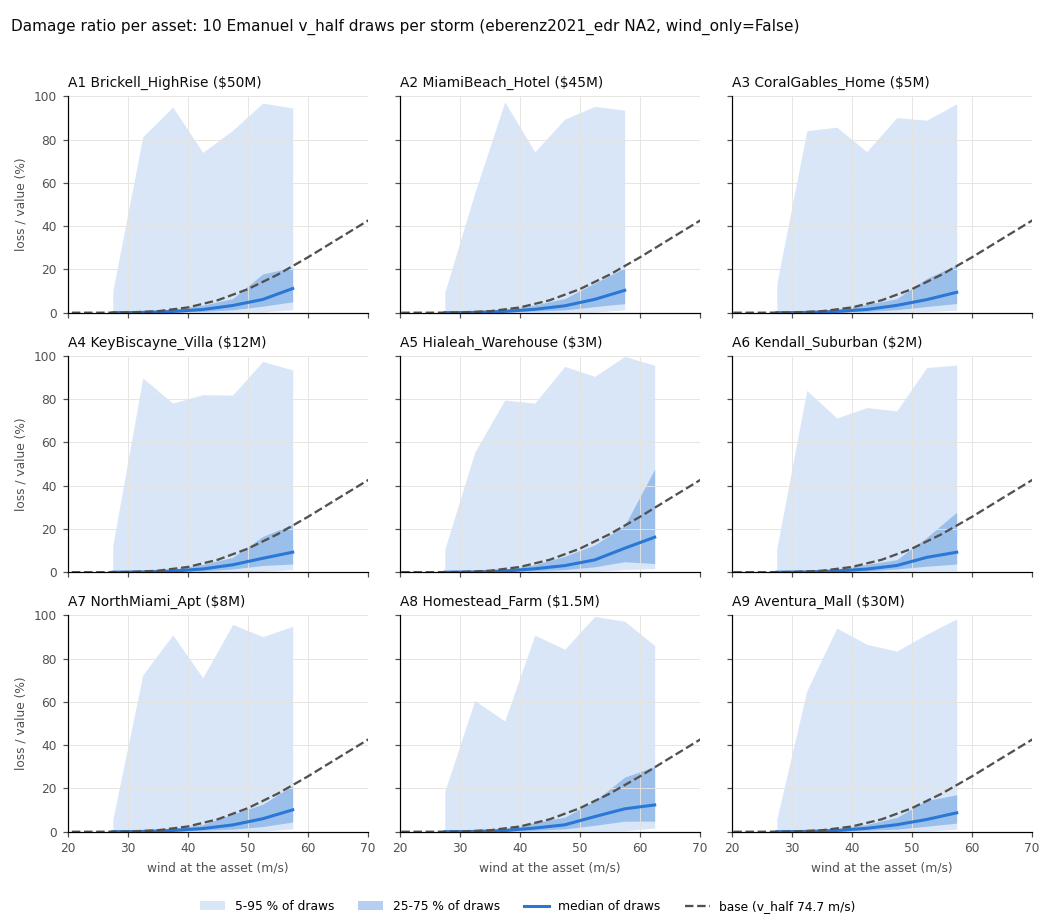
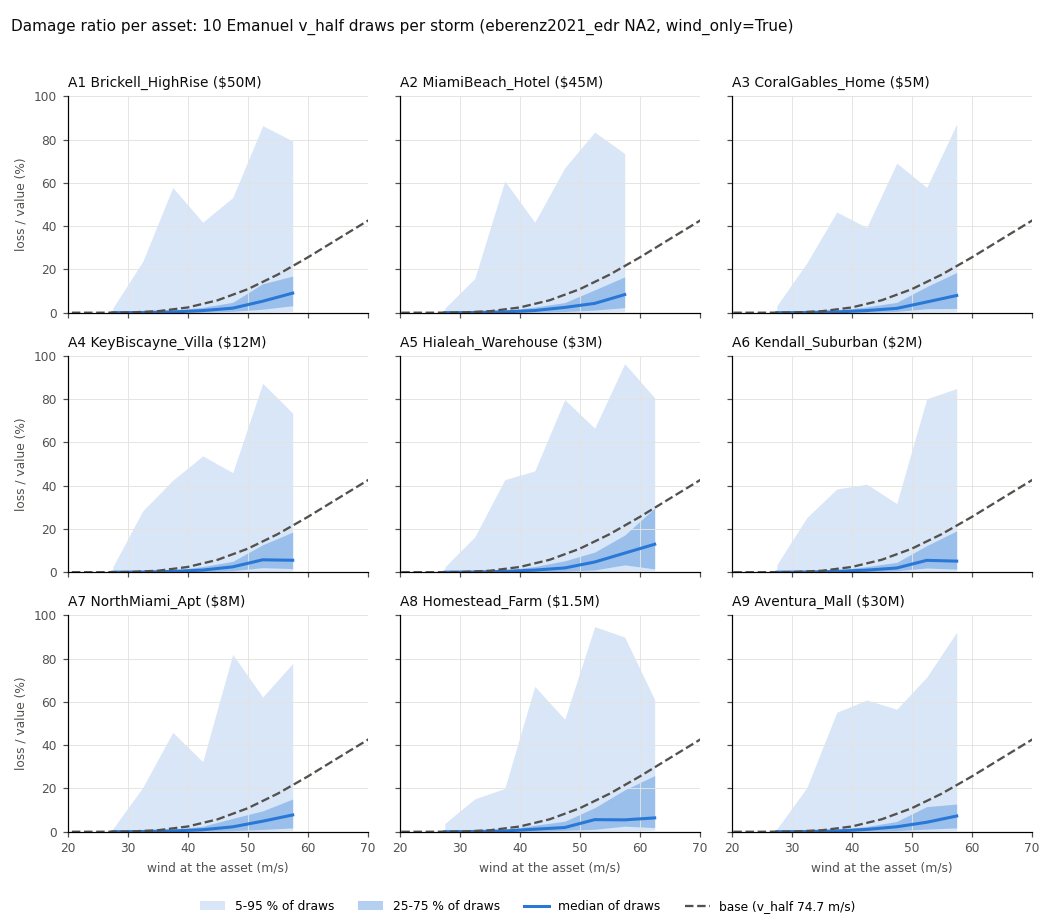
MAR-106: document the wind_only default and regenerate the loss-spread figure
States the MAR-103 decision and its rationale, keeps wind_only: false as the sensitivity option, and refreshes the thesis-portfolio observations from 10-draw builds of both priors.

diff --git a/docs/methodology/vulnerability.md b/docs/methodology/vulnerability.md
@@ -1,6 +1,6 @@
 # Vulnerability uncertainty: Emanuel `v_half` draws
 
-Issue MAR-25 (F-12), SPEC §6.3 ("loss truth"). Code: `packages/climada/src/parametric_insurance_design_climada/vulnerability.py`; config section `vulnerability` (see `packages/climada/README.md`).
+Issues MAR-25 and MAR-106 (F-12), SPEC §6.3 ("loss truth"); prior decision MAR-103. Code: `packages/climada/src/parametric_insurance_design_climada/vulnerability.py`; config section `vulnerability` (see `packages/climada/README.md`).
 
 ## Why
 
@@ -38,7 +38,7 @@ The issue allowed `v_thresh` draws "if needed". They aren't.
 
 ## The prior and its source
 
-**Default: `eberenz2021_edr`, region `NA2` (USA and Canada).**
+**Default: `eberenz2021_edr`, region `NA2` (USA and Canada), wind-only events (`wind_only: true`).**
 
 Eberenz, S., Lüthi, S. and Bresch, D. N. (2021): *Regional tropical cyclone impact functions for globally consistent risk assessments.* Nat. Hazards Earth Syst. Sci. 21, 393–415, [doi:10.5194/nhess-21-393-2021](https://doi.org/10.5194/nhess-21-393-2021).
 
@@ -51,16 +51,16 @@ What they did:
 - searched `v_half` from 25.8 to 325.7 m/s;
 - recommend event-fitted or RMSF-optimal functions for sensitivity analysis (their Sect. 5.1).
 
-CLIMADA 6.1.0 ships all four calibration results as `climada/data/system/tc_impf_cal_v01_{EDR,RMSF,TDR1.0,TDR1.5}.csv`. `ImpfSetTropCyclone.calibrated_regional_vhalf("EDR", q)` returns quantile `q` of a region's event-wise values. The prior is that distribution:
+CLIMADA 6.1.0 ships all four calibration results as `climada/data/system/tc_impf_cal_v01_{EDR,RMSF,TDR1.0,TDR1.5}.csv`. `ImpfSetTropCyclone.calibrated_regional_vhalf("EDR", q)` returns quantile `q` of a region's event-wise values. The prior is that distribution, restricted by default to the wind-only events:
 
-- a draw is `calibrated_regional_vhalf("EDR", q=u)["NA2"]` with `u ~ U(0, 1)`;
-- that is, the linear-interpolation quantile function of the 43 NA2 event-wise values;
+- a draw is the linear-interpolation quantile `u ~ U(0, 1)` of the 19 wind-only NA2 event-wise values (default);
+- with `wind_only: false` it is the quantile of all 43 NA2 values, which equals `calibrated_regional_vhalf("EDR", q=u)["NA2"]`;
 - the file's SHA256 is pinned (`bde5670d…a3343e39`), and loading fails if it differs.
 
 | NA2 event-wise `v_half` (m/s) | min | 5 % | 25 % | median | 75 % | 95 % | max |
 |---|---|---|---|---|---|---|---|
-| all 43 events (default) | 25.8 | 29.5 | 74.1 | 91.8 | 115.1 | 207.1 | 232.4 |
-| `wind_only: true` (19 events) | 25.8 | 35.9 | 79.1 | 95.4 | 143.7 | 221.9 | 232.4 |
+| `wind_only: true`, 19 events (default) | 25.8 | 35.9 | 79.1 | 95.4 | 143.7 | 221.9 | 232.4 |
+| `wind_only: false`, all 43 events (sensitivity) | 25.8 | 29.5 | 74.1 | 91.8 | 115.1 | 207.1 | 232.4 |
 
 For comparison:
 
@@ -68,7 +68,14 @@ For comparison:
 - the global fits are RMSF 73.4 m/s and TDR 110.1 m/s;
 - the thesis's and CLIMADA's default is 74.7 m/s.
 
-**Option `wind_only: true`.** This leaves out events whose EM-DAT record lists an associated disaster (surge, rain, flood, slide, other). Their reported damage isn't wind damage alone, which pulls the fitted `v_half` down. Examples among the five lowest NA2 values: 1992249N12229 and 2017228N14314 (Flood flags). The default keeps all events, as the published distribution does. Which one to use is an open question for the owner.
+**Decision: wind-only events by default (MAR-103, 2026-10-27).** The owner chose `wind_only: true` as the default prior for checkpoint C1 (MAR-29) and the paper. It leaves out the events whose EM-DAT record lists an associated disaster (surge, rain, flood, slide, other).
+
+Rationale:
+
+- the index and the loss in this pipeline are both wind only: CLIMADA's wind field at the asset and a wind impact function;
+- an event whose reported damage includes surge or flood damage gets a fitted `v_half` that is too low for a wind-only function, which makes the wind damage look larger than it is. Examples among the five lowest NA2 values: 1992249N12229 and 2017228N14314 (Flood flags).
+
+**Sensitivity option `wind_only: false`.** It keeps all 43 NA2 events, as the published distribution and `calibrated_regional_vhalf` do. `configs/thesis_vulnerability_all_events.yaml` is the thesis build with it; `configs/thesis_cat_in_circle_vulnerability.yaml` shows it as a commented line.
 
 **Alternative: `uniform`.** `v_half ~ U(low, high)`, for sensitivity runs; you supply the bounds and their source. It may be used with any `v_thresh` and `scale`. The Eberenz prior requires `v_thresh = 25.7` and `scale = 1`, and the config refuses anything else.
 
@@ -116,22 +123,30 @@ Use more draws for final paper runs if the solve budget allows.
 
 ## Observations on the thesis portfolio (no conclusions)
 
-Setup: `configs/thesis_vulnerability.yaml` (centroid-wind index) and `configs/thesis_cat_in_circle_vulnerability.yaml` (cat-in-a-circle, r = 50 km), 10 draws, seed 20261025, prior `eberenz2021_edr` NA2 with all events. Both have 60,570 rows × 9 locations. The loss columns of the two are identical; only the index differs.
+Setup: `configs/thesis_vulnerability.yaml` (centroid-wind index) and `configs/thesis_cat_in_circle_vulnerability.yaml` (cat-in-a-circle, r = 50 km), 10 draws, seed 20261025, prior `eberenz2021_edr` NA2, wind-only events (the default). Both have 60,570 rows × 9 locations. The loss columns of the two are identical; only the index differs. The sensitivity build `configs/thesis_vulnerability_all_events.yaml` is the same with all 43 events. Builds of 2026-10-27 (MAR-106), CLIMADA 6.1.0:
 
-- Per asset, the rate-weighted expected annual loss over the draws is **2.66–2.81 times** that of the base function (v_half 74.7). With `wind_only: true` (computed outside the pipeline with the same seed) it is 1.72–1.83 times.
-- The prior's median (91.8 m/s) gives *lower* damage than the base function. The higher mean comes from the lower tail of the prior: draws near the 25.8 m/s search bound give damage ratios near 100 % at winds of 30–40 m/s. Example, mean damage ratio over the prior at the wind shown:
+| config | prior | config file SHA256 | `content_hash` |
+|---|---|---|---|
+| `thesis_vulnerability.yaml` | wind-only, 19 events | `7085a3ab…69dfddd0` | `sha256:08ca2877…1f37f603` |
+| `thesis_cat_in_circle_vulnerability.yaml` | wind-only, 19 events | `f6535653…6c48c12d` | `sha256:ea8545d6…d37be7ba` |
+| `thesis_vulnerability_all_events.yaml` | all 43 events | `85a0c495…1659b1a3` | `sha256:6a0200ff…51aef57f` |
 
-  | wind | over the prior | at the median `v_half` | base |
-  |---|---|---|---|
-  | 35 m/s | 7.7 % | 0.3 % | 0.7 % |
-  | 55 m/s | 20.1 % | 8.0 % | 17.6 % |
+The all-events build has the same content hash as the MAR-25 build, which used all events as its default.
 
-- For storms with a non-zero loss, the median per-storm coefficient of variation of the loss across the 10 draws is 1.91–1.98 per asset.
-- The AAL computed per `draw_id` (each draw as one version of the 10,000 years) ranges, for asset A1, from 163k to 229k USD across the 10 draws. The mean is 191k, and the base is 70k.
+- Per asset, the rate-weighted expected annual loss over the draws is **1.72–1.83 times** that of the base function (v_half 74.7); for the portfolio total, 1.78 times. With all 43 events it is 2.66–2.81 times per asset (portfolio 2.72).
+- The default prior's median (95.4 m/s) gives *lower* damage than the base function. The higher mean comes from the lower tail of the prior: draws near the 25.8 m/s search bound give damage ratios near 100 % at winds of 30–40 m/s. Example, mean damage ratio over the prior at the wind shown:
+
+  | wind | over the prior (wind-only) | at its median `v_half` | over the prior (all events) | base |
+  |---|---|---|---|---|
+  | 35 m/s | 5.0 % | 0.2 % | 7.7 % | 0.7 % |
+  | 55 m/s | 15.7 % | 6.9 % | 20.1 % | 17.6 % |
+
+- For storms with a non-zero loss, the median per-storm coefficient of variation of the loss across the 10 draws is 1.89–1.94 per asset (all events: 1.91–1.98).
+- The AAL computed per `draw_id` (each draw as one version of the 10,000 years) ranges, for asset A1, from 102k to 159k USD across the 10 draws. The mean is 125k, and the base is 70k. With all events: 163k to 229k, mean 191k.
 
 ![Damage ratio per asset against the wind at the asset: median and 25–75 % / 5–95 % bands of the 10 draws per storm, and the base impact function](figures/vulnerability_loss_spread.png)
 
-The figure is made by `packages/climada/scripts/plot_vulnerability_spread.py` from the centroid-wind build:
+The figure is made by `packages/climada/scripts/plot_vulnerability_spread.py` from the centroid-wind build with the default prior (`configs/thesis_vulnerability.yaml`):
 
 - one panel per asset: the damage ratio (loss / value) of every (storm, draw) row against the wind at the asset;
 - the median and the 25–75 % and 5–95 % bands, in 5 m/s wind bins with at least 50 rows;
@@ -140,5 +155,5 @@ The figure is made by `packages/climada/scripts/plot_vulnerability_spread.py` fr
 ## Limits
 
 - The calibration used CLIMADA's TC wind model of the time, on IBTrACS tracks and LitPop exposure at country level. This pipeline uses IRIS tracks with the same H08 wind model and point exposures. The event-wise spread therefore also carries hazard-model and reporting error, not only building vulnerability.
-- NA2 contains two Hawaiian (East Pacific) events (1982324N10193, 1992249N12229). Both sit at the 25.8 m/s search bound.
+- NA2 contains two Hawaiian (East Pacific) events (1982324N10193, 1992249N12229). Both sit at the 25.8 m/s search bound. 1992249N12229 has a Flood flag and drops out of the wind-only default; 1982324N10193 has no flag and stays, so it is the default prior's minimum (the next-lowest wind-only value is 37.0 m/s). A basin filter would need the IBTrACS basin of each event, which isn't in the CSV.
 - Draws are independent across storms. A draw is not one fixed `v_half` for the whole catalogue: that is the epistemic reading, SPEC §6.5 (ii). For it, build one EventSet per `impact_function.v_half` value.

diff --git a/packages/climada/README.md b/packages/climada/README.md
@@ -126,8 +126,9 @@ vulnerability:
   seed: 20261025           # required: numpy.random.default_rng(seed)
   prior:
     kind: eberenz2021_edr  # default: event-wise calibrated v_half, Eberenz et al. (2021)
-    region: NA2            # default: USA and Canada (43 events)
-    wind_only: false       # true drops events with surge/rain/flood/slide/other damage
+    region: NA2            # default: USA and Canada
+    wind_only: true        # default (MAR-103): the 19 NA2 events without surge/rain/
+                           # flood/slide/other damage; false keeps all 43 (sensitivity)
   # or: prior: {kind: uniform, low: 60, high: 110, source: "..."}
 ```
 
@@ -135,7 +136,7 @@ The hook works as follows:
 
 - **One `v_half` per storm and draw**, shared by all locations of the storm. Storms and draws are independent.
 - **`v_thresh` and `scale` stay fixed**, at the values in `impact_function`. The Eberenz prior requires 25.7 m/s and 1, the values its calibration held fixed.
-- **The default prior is CLIMADA's own data:** a draw at `u ~ U(0, 1)` equals `ImpfSetTropCyclone.calibrated_regional_vhalf("EDR", q=u)["NA2"]`, read from `climada/data/system/tc_impf_cal_v01_EDR.csv`. That file's SHA256 is pinned.
+- **The default prior is CLIMADA's own data**, `climada/data/system/tc_impf_cal_v01_EDR.csv` (SHA256 pinned), restricted to the wind-only events (MAR-103 decision: the index and the loss are wind only). A draw at `u ~ U(0, 1)` is the quantile `u` of those events' `v_half`. With `wind_only: false` it equals `ImpfSetTropCyclone.calibrated_regional_vhalf("EDR", q=u)["NA2"]`.
 - **The loss is computed as `ImpactCalc` does:** on the base function's intensity grid with linear interpolation, `value · paa · mdd`. With the base `v_half` it reproduces the pipeline's loss.
 - **The draws don't depend on `batch_size`.** The generator is consumed event-major.
 - **A second transform record, `vulnerability_draws`, describes the draws:** the prior (source, DOI, data file and checksum, every value), `n_draws`, the sampling rule and the seed. The seed is `null` when the caller passes its own `rng` to `build_eventset`.
@@ -143,7 +144,8 @@ The hook works as follows:
 Example configs:
 
 - `configs/thesis_vulnerability.yaml`: the thesis index (wind at the asset) with 10 draws;
-- `configs/thesis_cat_in_circle_vulnerability.yaml`: cat-in-a-circle at 50 km with 10 draws, i.e. SPEC §6.3's index (b) plus vulnerability uncertainty.
+- `configs/thesis_cat_in_circle_vulnerability.yaml`: cat-in-a-circle at 50 km with 10 draws, i.e. SPEC §6.3's index (b) plus vulnerability uncertainty;
+- `configs/thesis_vulnerability_all_events.yaml`: the sensitivity run of the first, with all 43 NA2 events (`wind_only: false`).
 
 `scripts/plot_vulnerability_spread.py` draws the loss spread per asset from the centroid-wind build: `docs/methodology/figures/vulnerability_loss_spread.png`.
 
